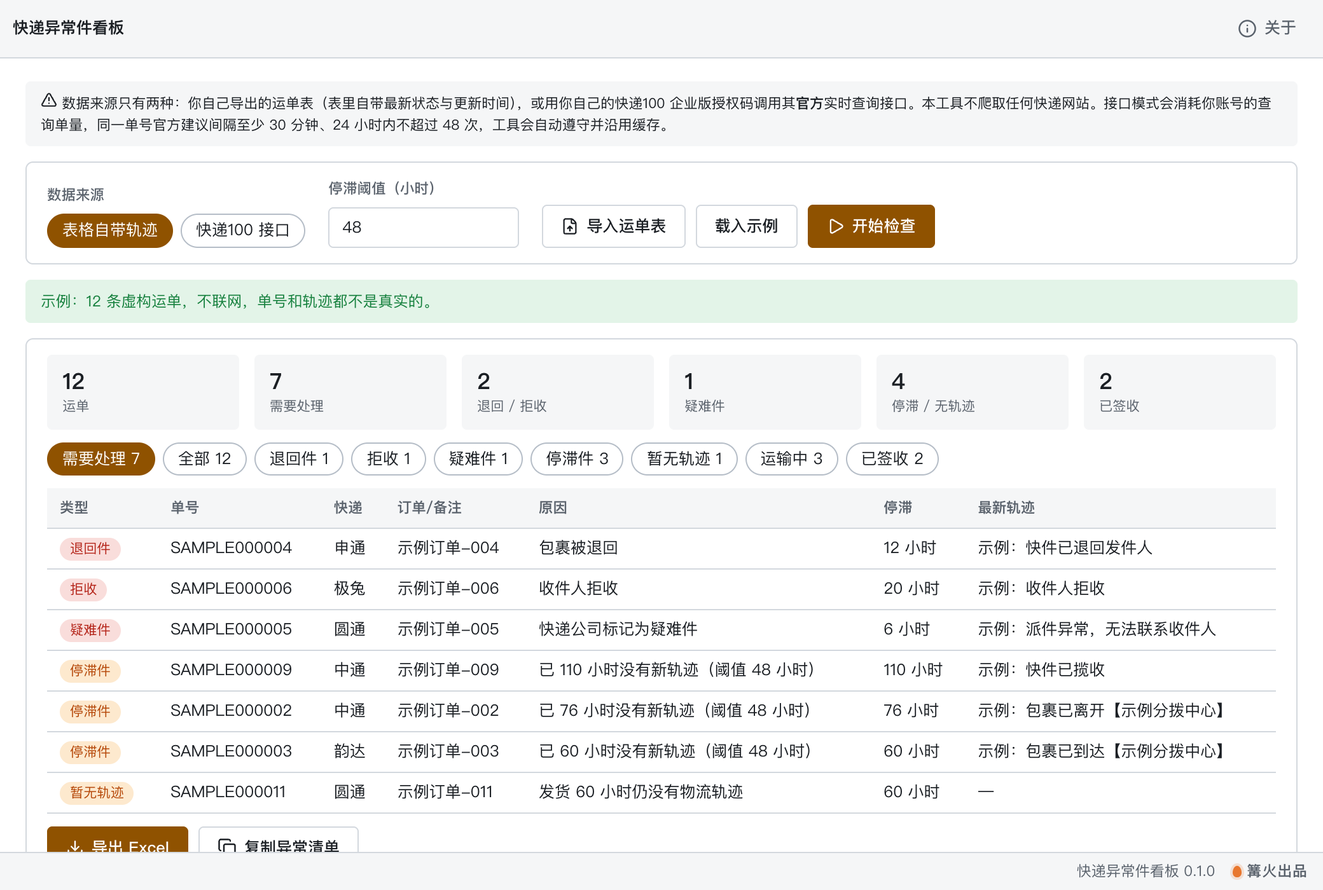
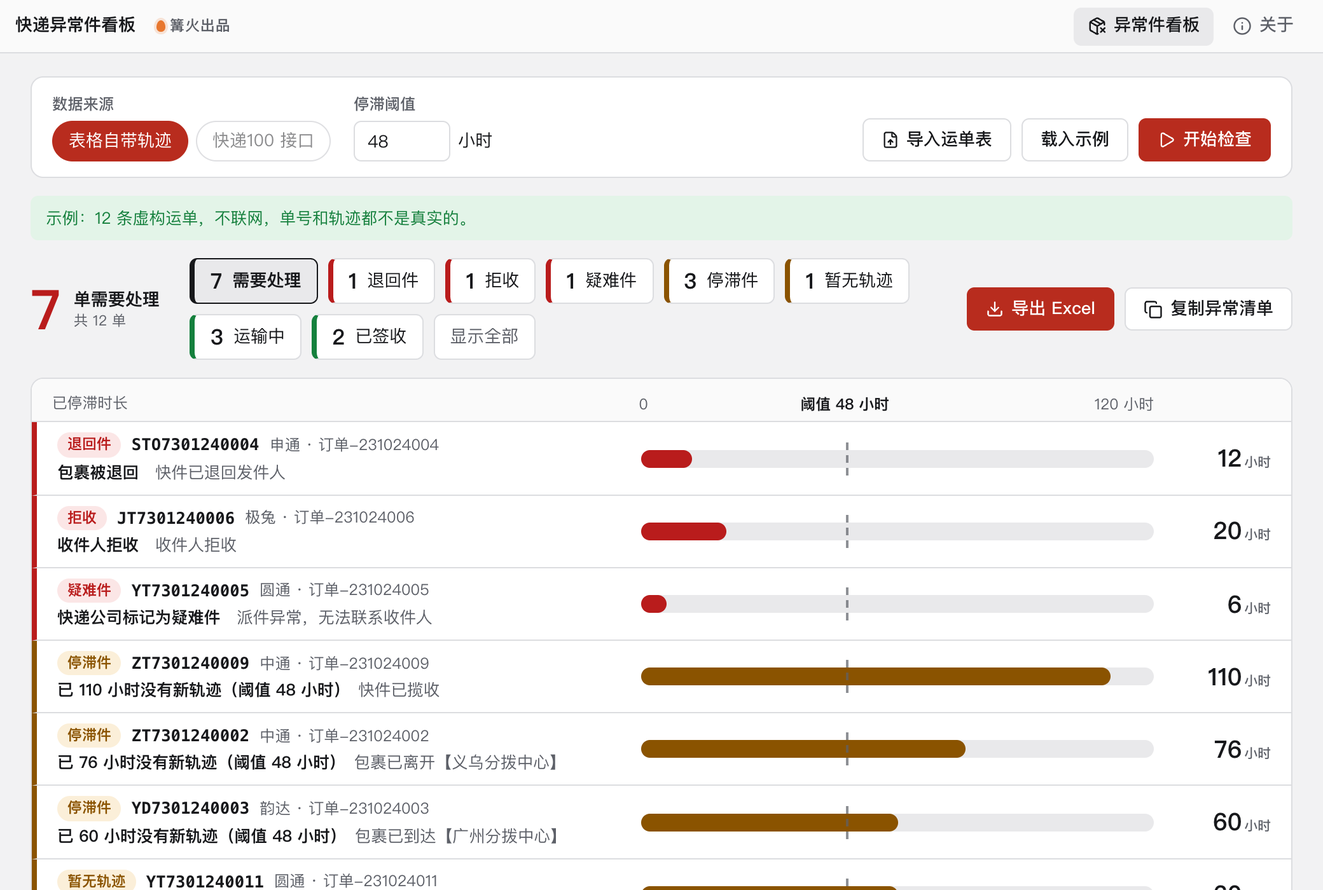
打磨：停滞时间线看板，示例数据真实化，升至 0.2.0

diff --git a/src/tool/Main.tsx b/src/tool/Main.tsx
@@ -107,37 +107,40 @@ export function Main({ ctx }: { ctx?: Ctx }) {
 
   const sum = useMemo(() => summarize(rows), [rows]);
   const shown = rows.filter((r) => (filter === 'all' ? true : filter === 'alerts' ? ALERT_CATEGORIES.includes(r.v.category) : r.v.category === filter));
-  const chip = (k: Filter, label: string, n: number) => <button key={k} className="ex-chip" aria-pressed={filter === k} onClick={() => setFilter(k)}>{label} {n}</button>;
   const cnt = (c: Category) => rows.filter((r) => r.v.category === c).length;
   const apiMode = !demo && prefs.mode === 'api';
+  const thr = prefs.stagnantHours;
+  const peak = Math.max(0, ...shown.map((r) => r.v.idleHours ?? 0));
+  const axis = Math.max(Math.ceil(Math.max(thr * 1.5, peak) / 24) * 24, 24);
+  const tiles: { k: Filter; label: string; n: number; tone: string }[] = [
+    { k: 'alerts', label: '需要处理', n: sum.alerts, tone: 'hi' },
+    ...(['return', 'refused', 'exception', 'stagnant', 'notrace'] as Category[]).filter(cnt).map((c) => ({ k: c as Filter, label: CATEGORY_LABEL[c], n: cnt(c), tone: sev(c) })),
+    ...(['normal', 'delivered', 'error'] as Category[]).filter(cnt).map((c) => ({ k: c as Filter, label: CATEGORY_LABEL[c], n: cnt(c), tone: c === 'error' ? 'mid' : 'ok' })),
+  ];
 
   return (
     <div className="ex-root">
-      <p className="ex-risk"><TriangleAlert size={13} /> 数据来源只有两种：你自己导出的运单表（表里自带最新状态与更新时间），或用你自己的快递100 企业版授权码调用其<b>官方</b>实时查询接口。本工具不爬取任何快递网站。接口模式会消耗你账号的查询单量，同一单号官方建议间隔至少 30 分钟、24 小时内不超过 48 次，工具会自动遵守并沿用缓存。</p>
-      <section className="k-panel ex-top">
-        <div className="k-field">
-          <span className="k-label">数据来源</span>
-          <span className="ex-seg">
+      <section className="ex-bar">
+        <div className="ex-grp"><span className="k-label">数据来源</span>
+          <span className="ex-seg" role="group" aria-label="数据来源">
             <button className="ex-chip" aria-pressed={prefs.mode === 'table'} disabled={busy} onClick={() => setP({ mode: 'table' })}>表格自带轨迹</button>
             <button className="ex-chip" aria-pressed={prefs.mode === 'api'} disabled={busy || demo} onClick={() => setP({ mode: 'api' })}>快递100 接口</button>
           </span>
         </div>
-        <div className="k-field">
-          <label className="k-label" htmlFor="ex-hours">停滞阈值（小时）</label>
-          <input id="ex-hours" className="k-input" type="number" min={1} max={720} value={prefs.stagnantHours} disabled={busy} onChange={(e) => setP({ stagnantHours: Math.max(1, Math.min(720, Number(e.target.value) || 48)) })} />
+        <div className="ex-grp"><label className="k-label" htmlFor="ex-hours">停滞阈值</label>
+          <span className="ex-hours"><input id="ex-hours" className="k-input" type="number" min={1} max={720} value={prefs.stagnantHours} disabled={busy} onChange={(e) => setP({ stagnantHours: Math.max(1, Math.min(720, Number(e.target.value) || 48)) })} />小时</span>
         </div>
         {apiMode && (
           <>
-            <div className="k-field">
-              <label className="k-label" htmlFor="ex-cu">授权码 customer</label>
+            <div className="ex-grp"><label className="k-label" htmlFor="ex-cu">授权码</label>
               <input id="ex-cu" className="k-input" autoComplete="off" spellCheck={false} disabled={busy} value={cred.customer} placeholder={cred.customer ? maskSecret(cred.customer) : ''} onChange={(e) => setCred({ ...cred, customer: e.target.value })} />
             </div>
-            <div className="k-field">
-              <label className="k-label" htmlFor="ex-key">授权 Key</label>
+            <div className="ex-grp"><label className="k-label" htmlFor="ex-key">授权 Key</label>
               <input id="ex-key" className="k-input" type="password" autoComplete="off" spellCheck={false} disabled={busy} value={cred.key} placeholder={cred.key ? maskSecret(cred.key) : ''} onChange={(e) => setCred({ ...cred, key: e.target.value })} />
             </div>
           </>
         )}
+        <span className="ex-sp" />
         <div className="ex-actions">
           <button className="k-btn" disabled={busy || !ctx} onClick={() => void pickFiles(['xlsx', 'csv'], '运单表').then((p) => { if (p.length) void importFiles(p); })}><FileUp size={14} />导入运单表</button>
           <button className="k-btn" disabled={busy} onClick={loadDemo}>载入示例</button>
@@ -145,50 +148,71 @@ export function Main({ ctx }: { ctx?: Ctx }) {
             ? <button className="k-btn" onClick={() => abort.current?.abort()}><Square size={14} />停止</button>
             : <button className="k-btn primary" onClick={() => void start()}><Play size={14} />开始检查</button>}
         </div>
-        {apiMode && <p className="ex-note k-muted"><ShieldCheck size={13} /> 授权码只保存在本机，只发给 poll.kuaidi100.com。<button className="k-link" onClick={() => void openLink(DOCS)}>接口文档</button></p>}
       </section>
 
       {error && <div className="k-notice err" role="alert">{error}</div>}
       {notice && !error && <div className="k-notice ok">{notice}{hover ? ' 松开即可导入。' : ''}</div>}
       {busy && <div className="ex-file"><span className="k-spin" /> 正在检查：{prog.done} / {prog.total}</div>}
 
-      <section className="k-panel ex-main">
-        {!rows.length && !busy && <div className="k-empty"><p>导入运单表（需要「快递单号」列，可带快递公司、手机号、订单号、发货时间），或先点「载入示例」。</p><p className="k-muted">表格里带「物流状态、最后更新时间」时可直接判断；否则用快递100 接口逐单查询。</p></div>}
-        {rows.length > 0 && (
-          <>
-            <div className="ex-sum">
-              <div><b className="k-num">{sum.total}</b><span className="k-muted">运单</span></div>
-              <div><b className="k-num">{sum.alerts}</b><span className="k-muted">需要处理</span></div>
-              <div><b className="k-num">{sum.return}</b><span className="k-muted">退回 / 拒收</span></div>
-              <div><b className="k-num">{sum.exception}</b><span className="k-muted">疑难件</span></div>
-              <div><b className="k-num">{sum.stagnant}</b><span className="k-muted">停滞 / 无轨迹</span></div>
-              <div><b className="k-num">{sum.delivered}</b><span className="k-muted">已签收</span></div>
-            </div>
-            <div className="ex-chips">
-              {chip('alerts', '需要处理', sum.alerts)}{chip('all', '全部', sum.total)}
-              {(['return', 'refused', 'exception', 'stagnant', 'notrace', 'normal', 'delivered', 'error'] as Category[]).filter((c) => cnt(c)).map((c) => chip(c, CATEGORY_LABEL[c], cnt(c)))}
-            </div>
-            <div className="k-table-wrap k-scroll ex-table">
-              <table className="k-table">
-                <thead><tr><th>类型</th><th>单号</th><th>快递</th><th>订单/备注</th><th>原因</th><th>停滞</th><th>最新轨迹</th></tr></thead>
-                <tbody>{shown.map((r) => (
-                  <tr key={r.s.num}>
-                    <td><span className={`ex-tag ${sev(r.v.category)}`}>{r.v.label}</span></td>
-                    <td className="k-num">{r.s.num}</td><td>{r.s.carrier || r.s.com}</td><td>{r.s.ref}</td>
-                    <td>{r.v.reason}</td><td className="k-num">{r.v.idleHours == null ? '—' : `${r.v.idleHours} 小时`}</td>
-                    <td><div className="ex-ctx" title={r.v.lastContext}>{r.v.lastContext || '—'}</div></td>
-                  </tr>))}</tbody>
-              </table>
+      {!rows.length && !busy && (
+        <section className="ex-empty">
+          <svg viewBox="0 0 440 110" aria-hidden="true">
+            <line className="ex-s-rail" x1="12" y1="62" x2="428" y2="62" />
+            <line className="ex-s-thr" x1="290" y1="24" x2="290" y2="98" />
+            {[40, 110, 170, 230].map((x) => <circle key={x} className="ex-s-ok" cx={x} cy="62" r="7" />)}
+            <rect className="ex-s-bad" x="278" y="48" width="26" height="28" rx="6" />
+            <path className="ex-s-mark" d="M291 55v10m0 5v1" />
+            <rect className="ex-s-bad2" x="340" y="52" width="70" height="20" rx="6" />
+          </svg>
+          <div>
+            <b>把运单表，变成一条条停滞时间线</b>
+            <p className="k-muted">导入运单表（需要「快递单号」列，可带快递公司、手机号、订单号、发货时间），或先点「载入示例」。表里带「物流状态、最后更新时间」时可直接判断，否则用快递100 接口逐单查询。</p>
+          </div>
+        </section>
+      )}
+
+      {rows.length > 0 && (
+        <>
+          <div className="ex-head">
+            <div className="ex-big"><b className="k-num">{sum.alerts}</b><span>单需要处理<small>共 {sum.total} 单</small></span></div>
+            <div className="ex-tiles" role="group" aria-label="按类型筛选">
+              {tiles.map((t) => <button key={t.k} className={`ex-tile ${t.tone}`} aria-pressed={filter === t.k} onClick={() => setFilter(t.k)}><b className="k-num">{t.n}</b>{t.label}</button>)}
+              {filter !== 'all' && <button className="ex-tile all" onClick={() => setFilter('all')}>显示全部</button>}
             </div>
             <div className="ex-actions">
               <button className="k-btn primary" onClick={() => void exportXlsx()}><Download size={14} />导出 Excel</button>
               <CopyButton text={alertText(rows)} label="复制异常清单" />
-              {saved && <span className="ex-file"><span className="k-ellipsis" title={saved}>{saved}</span>{!preview && <button className="k-link" onClick={() => void reveal(saved)}><FolderOpen size={14} />在文件夹中显示</button>}</span>}
             </div>
-            {demo && <p className="k-muted ex-note">当前是示例数据（虚构），不是真实运单。</p>}
-          </>
-        )}
-      </section>
+          </div>
+          {saved && <div className="ex-file"><Download size={14} /><span className="k-ellipsis" title={saved}>{saved}</span>{!preview && <button className="k-link" onClick={() => void reveal(saved)}><FolderOpen size={14} />在文件夹中显示</button>}</div>}
+          <div className="ex-tl" style={{ ['--t' as string]: thr / axis }}>
+            <div className="ex-axis"><span>已停滞时长</span><div className="ex-ruler"><i style={{ left: 0 }}>0</i><i className="thr" style={{ left: `${(thr / axis) * 100}%` }}>阈值 {thr} 小时</i><i style={{ right: 0 }}>{axis} 小时</i></div><span /></div>
+            <ol className="ex-list">
+              {shown.map((r) => {
+                const h = r.v.idleHours;
+                return (
+                  <li key={r.s.num} className={`ex-row ${sev(r.v.category)}`}>
+                    <div className="ex-who">
+                      <div className="ex-l1"><span className={`ex-tag ${sev(r.v.category)}`}>{r.v.label}</span><span className="ex-num k-num">{r.s.num}</span><span className="ex-sub">{r.s.carrier || r.s.com}{r.s.ref ? ` · ${r.s.ref}` : ''}</span></div>
+                      <p className="ex-ctx" title={r.v.lastContext}><b>{r.v.reason}</b>{r.v.lastContext ? <span className="k-muted">　{r.v.lastContext}</span> : null}</p>
+                    </div>
+                    <div className="ex-track" role="img" aria-label={h == null ? '没有停滞时长' : `已停滞 ${h} 小时`}>{h != null && <i style={{ width: `${Math.min(100, (h / axis) * 100)}%` }} />}</div>
+                    <div className="ex-h k-num">{h == null ? '—' : <>{h}<small>小时</small></>}</div>
+                  </li>
+                );
+              })}
+              {!shown.length && <li className="ex-none k-muted">这一类没有运单</li>}
+            </ol>
+          </div>
+          {demo && <p className="k-muted ex-note">当前是示例数据（虚构），不是真实运单。</p>}
+        </>
+      )}
+
+      <details className="ex-risk">
+        <summary><TriangleAlert size={13} />数据来源与合规说明</summary>
+        <p>数据来源只有两种：你自己导出的运单表（表里自带最新状态与更新时间），或用你自己的快递100 企业版授权码调用其<b>官方</b>实时查询接口。本工具不爬取任何快递网站。接口模式会消耗你账号的查询单量，同一单号官方建议间隔至少 30 分钟、24 小时内不超过 48 次，工具会自动遵守并沿用缓存。</p>
+        {apiMode && <p className="ex-note"><ShieldCheck size={13} /> 授权码只保存在本机，只发给快递100 官方接口。<button className="k-link" onClick={() => void openLink(DOCS)}>接口文档</button></p>}
+      </details>
     </div>
   );
 }

diff --git a/src/tool/tool.css b/src/tool/tool.css
@@ -1,23 +1,73 @@
-/* 快递异常件看板：只用 kit.css 的变量，类名以 ex- 开头。 */
-.ex-root { flex: 1; min-height: 0; display: flex; flex-direction: column; gap: 12px; }
-.ex-top { padding: 12px 16px; display: flex; flex-wrap: wrap; gap: 12px 18px; align-items: flex-end; }
-.ex-top .k-field { min-width: 150px; }
+/* 快递异常件看板：停滞时间线。只用 kit.css 的变量，类名以 ex- 开头。 */
+.ex-root { display: grid; gap: 14px; align-content: start; min-width: 0; }
+.ex-bar { display: flex; flex-wrap: wrap; gap: 10px 18px; align-items: flex-end; padding: 12px 16px; background: var(--surface); border: 1px solid var(--line); border-radius: var(--radius-lg); }
+.ex-grp { display: grid; gap: 4px; }
+.ex-grp .k-input { width: 150px; }
 .ex-seg { display: inline-flex; gap: 6px; }
-.ex-note { display: flex; align-items: flex-start; gap: 6px; font-size: .88em; margin: 0; line-height: 1.55; }
-.ex-risk { font-size: .88em; margin: 0; padding: 8px 12px; border-radius: var(--radius); background: var(--side); line-height: 1.55; }
-.ex-sum { display: grid; grid-template-columns: repeat(auto-fit, minmax(110px, 1fr)); gap: 12px; }
-.ex-sum > div { display: grid; gap: 2px; padding: 10px 12px; border-radius: var(--radius); background: var(--side); }
-.ex-sum b { font-size: 1.4em; line-height: 1.2; }
-.ex-sum .k-muted { font-size: .85em; }
-.ex-main { padding: 12px 16px; display: grid; gap: 10px; align-content: start; min-height: 260px; }
-.ex-chips { display: flex; flex-wrap: wrap; gap: 6px; align-items: center; }
-.ex-chip { padding: 3px 11px; border-radius: 999px; border: 1px solid var(--line-strong); background: transparent; font: inherit; cursor: pointer; color: inherit; }
-.ex-chip[aria-pressed='true'] { background: var(--primary); border-color: var(--primary); color: #fff; }
-.ex-table { max-height: 300px; }
-.ex-ctx { max-width: 260px; overflow: hidden; text-overflow: ellipsis; white-space: nowrap; }
-.ex-tag { display: inline-block; padding: 1px 8px; border-radius: 999px; font-size: .85em; background: var(--side); }
-.ex-tag.hi { background: color-mix(in srgb, #d92d20 16%, transparent); color: #b42318; }
-.ex-tag.mid { background: color-mix(in srgb, #f79009 20%, transparent); color: #b54708; }
-.ex-tag.ok { background: color-mix(in srgb, #12b76a 16%, transparent); color: #067647; }
+.ex-hours { display: inline-flex; align-items: center; gap: 6px; }
+.ex-hours .k-input { width: 76px; }
+.ex-sp { flex: 1; }
+.ex-chip { min-height: 32px; padding: 0 12px; border-radius: 999px; border: 1px solid var(--line-strong); background: transparent; font: inherit; cursor: pointer; color: inherit; transition: background .18s var(--ease); }
+.ex-chip[aria-pressed='true'] { background: var(--primary); border-color: var(--primary); color: var(--on-primary); }
+.ex-chip:disabled { opacity: .5; cursor: not-allowed; }
 .ex-actions { display: flex; flex-wrap: wrap; gap: 8px; align-items: center; }
 .ex-file { display: flex; align-items: center; gap: 8px; min-width: 0; }
+.ex-note { display: flex; align-items: center; gap: 6px; margin: 0; font-size: .92em; }
+.ex-empty { display: flex; align-items: center; gap: 28px; flex-wrap: wrap; padding: 22px 26px; border: 1px dashed var(--line-strong); border-radius: var(--radius-lg); }
+.ex-empty svg { width: 380px; max-width: 100%; flex: none; }
+.ex-empty b { font-size: 1.25em; }
+.ex-empty p { margin: 6px 0 0; max-width: 48ch; line-height: 1.6; }
+.ex-s-rail { stroke: var(--line-strong); stroke-width: 4; stroke-linecap: round; }
+.ex-s-thr { stroke: var(--muted); stroke-width: 1.5; stroke-dasharray: 4 4; }
+.ex-s-ok { fill: var(--ok); }
+.ex-s-bad { fill: var(--err); }
+.ex-s-bad2 { fill: var(--err); opacity: .35; }
+.ex-s-mark { stroke: #fff; stroke-width: 3; stroke-linecap: round; }
+.ex-head { display: flex; flex-wrap: wrap; align-items: center; gap: 12px 24px; }
+.ex-big { display: flex; align-items: center; gap: 10px; }
+.ex-big b { font-size: 3.2em; line-height: 1; color: var(--err); }
+.ex-big span { display: grid; font-weight: 600; line-height: 1.3; }
+.ex-big small { font-weight: 400; color: var(--muted); }
+.ex-tiles { display: flex; flex-wrap: wrap; gap: 8px; flex: 1; min-width: 0; }
+.ex-tile { display: inline-flex; align-items: center; gap: 8px; min-height: 36px; padding: 0 12px; border-radius: var(--radius); border: 1px solid var(--line); border-left-width: 4px; background: var(--surface); font: inherit; color: inherit; cursor: pointer; transition: background .18s var(--ease), border-color .18s var(--ease); }
+.ex-tile b { font-size: 1.25em; }
+.ex-tile.hi { border-left-color: var(--err); }
+.ex-tile.mid { border-left-color: var(--warn); }
+.ex-tile.ok { border-left-color: var(--ok); }
+.ex-tile.all { border-left-width: 1px; color: var(--muted); }
+.ex-tile:hover { border-color: var(--line-strong); }
+.ex-tile[aria-pressed='true'] { background: var(--chip); border-color: var(--ink); font-weight: 600; }
+.ex-tl { background: var(--surface); border: 1px solid var(--line); border-radius: var(--radius-lg); overflow: hidden; }
+.ex-axis, .ex-row { display: grid; grid-template-columns: minmax(280px, 1.1fr) minmax(160px, 1fr) 76px; column-gap: 16px; padding-inline: 16px; }
+.ex-axis { align-items: end; height: 34px; background: var(--side); border-bottom: 1px solid var(--line); color: var(--muted); font-size: .88em; padding-bottom: 6px; }
+.ex-ruler { position: relative; height: 1.4em; }
+.ex-ruler i { position: absolute; top: 0; font-style: normal; white-space: nowrap; }
+.ex-ruler i.thr { transform: translateX(-50%); color: var(--ink); font-weight: 600; }
+.ex-list { list-style: none; margin: 0; padding: 0; }
+.ex-row { align-items: center; padding-block: 8px; border-bottom: 1px solid var(--line); border-left: 4px solid transparent; transition: background .18s var(--ease); }
+.ex-row:hover { background: var(--side); }
+.ex-row:last-child { border-bottom: 0; }
+.ex-row.hi { border-left-color: var(--err); }
+.ex-row.mid { border-left-color: var(--warn); }
+.ex-row.ok { border-left-color: var(--ok); }
+.ex-who { display: grid; gap: 3px; min-width: 0; }
+.ex-l1 { display: flex; align-items: center; gap: 8px; min-width: 0; }
+.ex-num { font-weight: 600; font-family: ui-monospace, Menlo, Consolas, monospace; font-size: .95em; }
+.ex-sub { color: var(--muted); font-size: .9em; overflow: hidden; text-overflow: ellipsis; white-space: nowrap; min-width: 0; }
+.ex-tag { padding: 1px 8px; border-radius: 999px; font-size: .85em; font-weight: 600; background: var(--chip); }
+.ex-tag.hi { background: var(--err-soft); color: var(--err); }
+.ex-tag.mid { background: var(--warn-soft); color: var(--warn); }
+.ex-tag.ok { background: var(--ok-soft); color: var(--ok); }
+.ex-track { position: relative; height: 14px; border-radius: 7px; background: var(--chip); }
+.ex-track::after { content: ''; position: absolute; top: -6px; bottom: -6px; left: calc(var(--t) * 100%); border-left: 2px dashed var(--muted); opacity: .7; }
+.ex-track i { display: block; height: 100%; border-radius: 7px; background: var(--ok); transition: width .2s var(--ease); }
+.ex-row.hi .ex-track i { background: var(--err); }
+.ex-row.mid .ex-track i { background: var(--warn); }
+.ex-h { text-align: right; font-size: 1.4em; font-weight: 700; line-height: 1.1; }
+.ex-h small { font-size: .55em; font-weight: 500; color: var(--muted); margin-left: 2px; }
+.ex-ctx { margin: 0; line-height: 1.4; font-size: .95em; overflow: hidden; text-overflow: ellipsis; white-space: nowrap; }
+.ex-none { padding: 24px; text-align: center; }
+.ex-risk { padding: 8px 14px; border: 1px solid var(--line); border-radius: var(--radius-lg); background: var(--surface); color: var(--muted); }
+.ex-risk summary { display: flex; align-items: center; gap: 6px; min-height: 30px; cursor: pointer; }
+.ex-risk p { margin: 4px 0 8px; line-height: 1.6; font-size: .95em; }
+@media (max-width: 720px) { .ex-axis, .ex-row { grid-template-columns: 1fr 64px; } .ex-track, .ex-axis .ex-ruler { display: none; } }

diff --git a/src/tool/samples.ts b/src/tool/samples.ts
@@ -6,20 +6,21 @@ const fmt = (t: number) => { const d = new Date(t); const p = (n: number) => Str
 
 export function sampleGrid(now: number): Cell[][] {
   const h = (n: number) => fmt(now - n * 3_600_000);
+  const PREFIX: Record<string, string> = { 圆通: 'YT', 中通: 'ZT', 韵达: 'YD', 申通: 'STO', 极兔: 'JT' };
   const row = (i: number, carrier: string, ref: string, shipH: number, st: string, updH: number | null, ctx: string): Cell[] =>
-    [`SAMPLE${String(i).padStart(6, '0')}`, carrier, ref, h(shipH), st, updH == null ? '' : h(updH), ctx];
+    [`${PREFIX[carrier]}7301240${String(i).padStart(3, '0')}`, carrier, ref, h(shipH), st, updH == null ? '' : h(updH), ctx];
   return [SAMPLE_HEADER,
-    row(1, '圆通', '示例订单-001', 30, '运输中', 5, '示例：包裹已到达【示例转运中心】'),
-    row(2, '中通', '示例订单-002', 120, '运输中', 76, '示例：包裹已离开【示例分拨中心】'),
-    row(3, '韵达', '示例订单-003', 96, '运输中', 60, '示例：包裹已到达【示例分拨中心】'),
-    row(4, '申通', '示例订单-004', 90, '退回', 12, '示例：快件已退回发件人'),
-    row(5, '圆通', '示例订单-005', 70, '疑难', 6, '示例：派件异常，无法联系收件人'),
-    row(6, '极兔', '示例订单-006', 50, '拒收', 20, '示例：收件人拒收'),
-    row(7, '圆通', '示例订单-007', 60, '已签收', 8, '示例：已签收'),
-    row(8, '韵达', '示例订单-008', 80, '已签收', 30, '示例：已签收'),
-    row(9, '中通', '示例订单-009', 100, '运输中', 110, '示例：快件已揽收'),
-    row(10, '申通', '示例订单-010', 4, '派件', 2, '示例：派件员正在派送'),
-    row(11, '圆通', '示例订单-011', 60, '', null, ''),
-    row(12, '极兔', '示例订单-012', 40, '运输中', 18, '示例：包裹已到达【示例转运中心】'),
+    row(1, '圆通', '订单-231024001', 30, '运输中', 5, '包裹已到达【杭州转运中心】'),
+    row(2, '中通', '订单-231024002', 120, '运输中', 76, '包裹已离开【义乌分拨中心】'),
+    row(3, '韵达', '订单-231024003', 96, '运输中', 60, '包裹已到达【广州分拨中心】'),
+    row(4, '申通', '订单-231024004', 90, '退回', 12, '快件已退回发件人'),
+    row(5, '圆通', '订单-231024005', 70, '疑难', 6, '派件异常，无法联系收件人'),
+    row(6, '极兔', '订单-231024006', 50, '拒收', 20, '收件人拒收'),
+    row(7, '圆通', '订单-231024007', 60, '已签收', 8, '已签收'),
+    row(8, '韵达', '订单-231024008', 80, '已签收', 30, '已签收'),
+    row(9, '中通', '订单-231024009', 100, '运输中', 110, '快件已揽收'),
+    row(10, '申通', '订单-231024010', 4, '派件', 2, '派件员正在派送'),
+    row(11, '圆通', '订单-231024011', 60, '', null, ''),
+    row(12, '极兔', '订单-231024012', 40, '运输中', 18, '包裹已到达【成都转运中心】'),
   ];
 }

diff --git a/src/tool/core.test.ts b/src/tool/core.test.ts
@@ -110,7 +110,7 @@ describe('汇总与清单', () => {
     const rows = readShipments(sampleGrid(NOW)).shipments.map((s) => ({ s, v: judge(s, traceFromRow(s, NOW), null, NOW, DEFAULT_OPTS) }));
     expect(summarize(rows)).toEqual({ total: 12, alerts: 7, return: 2, exception: 1, stagnant: 4, delivered: 2, error: 0 });
     expect(alertText(rows).split('\n')).toHaveLength(7);
-    expect(alertText(rows)).toContain('退回件｜申通 SAMPLE000004｜示例订单-004');
+    expect(alertText(rows)).toContain('退回件｜申通 STO7301240004｜订单-231024004');
   });
   it('导出文件名', () => expect(exportFileName(new Date(2026, 9, 23, 9, 5))).toBe('快递异常件-20261023-0905.xlsx'));
 });

diff --git a/src/tool/api.ts b/src/tool/api.ts
@@ -31,6 +31,7 @@ export function guard(entry: CacheEntry | undefined, now: number): Guard {
 }
 
 export function checkReady(s: Shipment): string | null {
+  // check-zh: 忽略（快递公司编码示例，用户在表里需要写成这种编码）
   if (!s.com) return `无法识别快递公司「${s.carrier || '空'}」，请改成快递100 的编码（如 yuantong）`;
   if (NEEDS_PHONE.includes(s.com) && !s.phone) return '顺丰、中通查询必须提供手机号（官方要求），表里没有手机号列';
   return null;

diff --git a/src/tool/flow.ts b/src/tool/flow.ts
@@ -14,7 +14,7 @@ export const GAP_MS = 300;
 
 export function validate(mode: Mode, shipments: Shipment[], cred: Credentials, demo: boolean): string | null {
   if (!shipments.length) return '请先导入表格（需要有「快递单号」列）';
-  if (mode === 'api' && !demo && !credReady(cred)) return '接口模式需要填写快递100 的授权码（customer）和 Key';
+  if (mode === 'api' && !demo && !credReady(cred)) return '接口模式需要填写快递100 的授权码和授权 Key';
   return null;
 }
 

diff --git a/CHANGELOG.md b/CHANGELOG.md
@@ -1,5 +1,12 @@
 # 更新记录
 
+## 0.2.0
+
+- 看板改为「停滞时间线」：每单一根横条表示已停滞小时数，虚线标出阈值，顶部大字显示需要处理的单数。
+- 类型筛选改成彩色方块（红色最急、橙色次之），点击即筛选；控制条收成一行，合规说明折叠。
+- 新增空状态示意图；示例运单换成真实感的单号、订单号和轨迹地点。
+- 授权码输入框去掉英文字段名，界面文字全部中文。
+
 ## 0.1.0
 
 - 首个版本。
